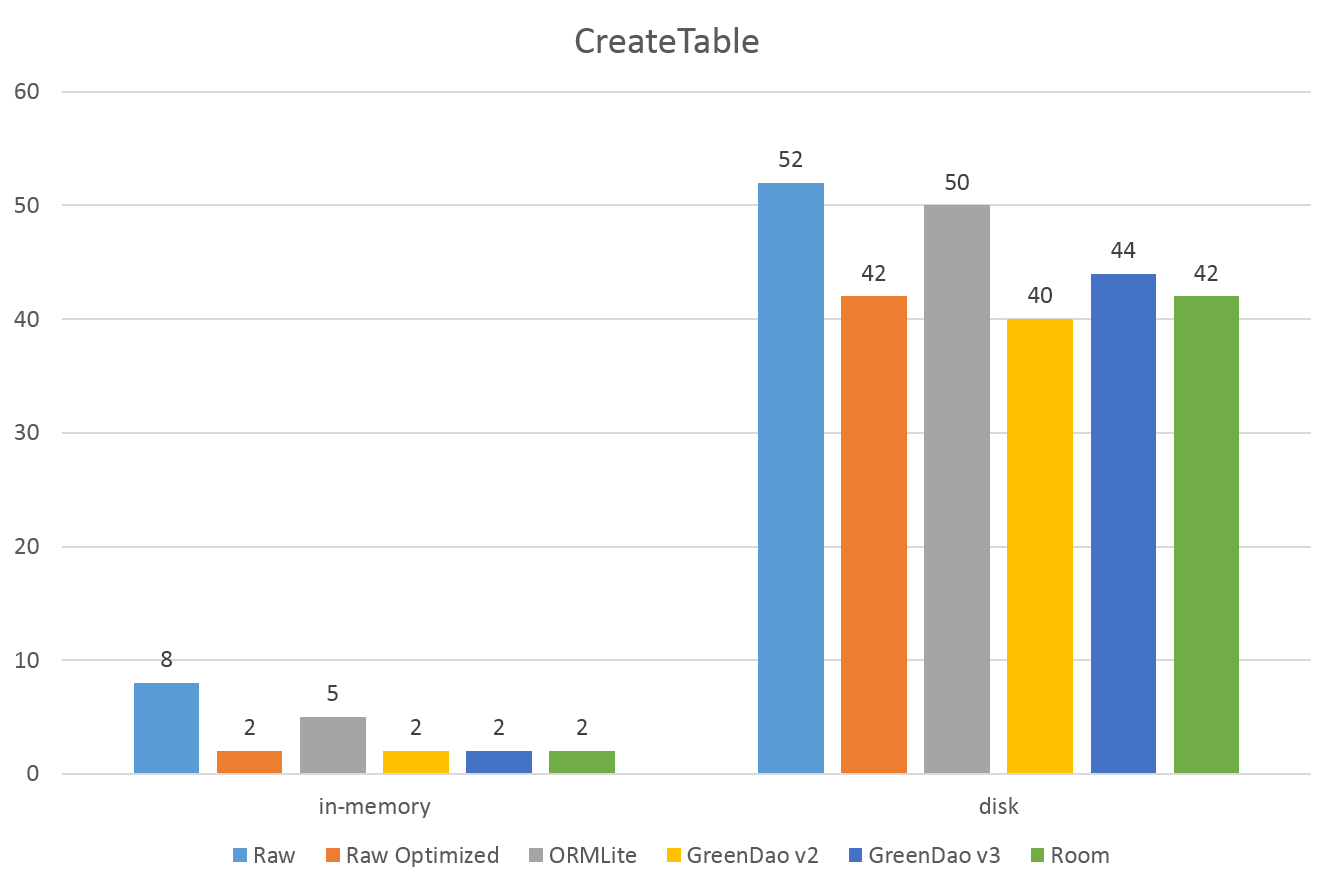
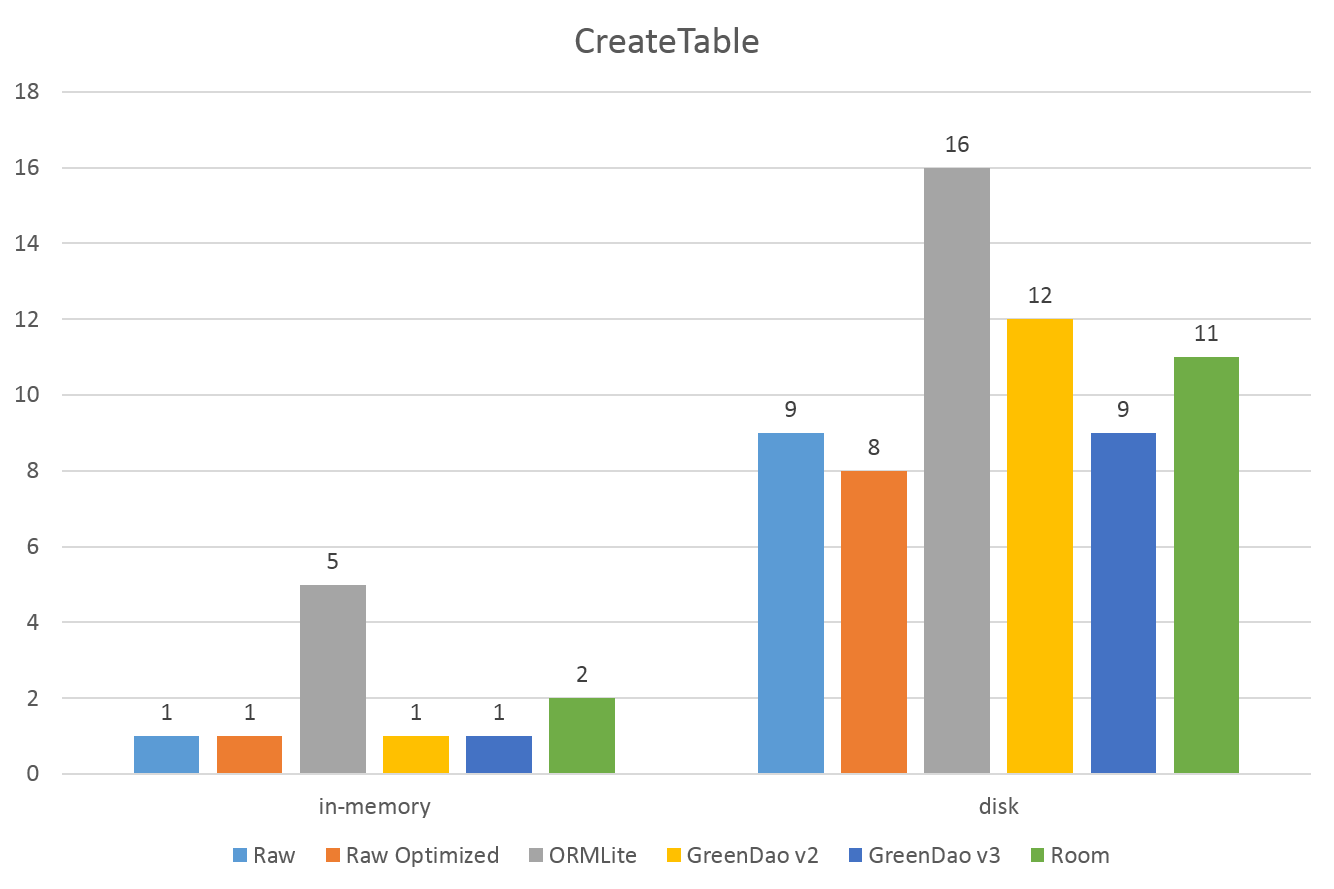
Re-testing on HUAWEI Mate 10 and update results

diff --git a/README.md b/README.md
@@ -23,12 +23,12 @@ Each task is run 50 times, and the application reports the average time for each
 
 ## Results
 
-Building and running the ORM-Benchmark project produces output similar to that below. 
+Building and running the ORM-Benchmark project produces output similar to that below.
 
 - The times are in milliseconds.
 - The results are shown on the device and are also logged to Logcat.  
 
-The results below combine the in-memory database results with the on disk database results side by side. **But this comparison may be invalid because of SQLite pages cache**. They are from a Nexus 6 Android 7.1.1.
+The results below combine the in-memory database results with the on disk database results side by side. They are from a Nexus 6 Android 7.1.1.
 
 - CREATE_TABLE
 ![create_table](results/create_table.png)
@@ -37,13 +37,13 @@ The results below combine the in-memory database results with the on disk databa
 ![write](results/write.png)
 
 - READ_DATA
-![read](results/read.png)
+![read](results/query_all.png)
 
 - READ_INDEXED
-![read_indexed](results/read_indexed.png)
+![read_indexed](results/query_by_indexed.png)
 
 - READ_SEARCH
-![search](results/search.png)
+![search](results/query_with_where_clause.png)
 
 - DROP_TABLE
 ![drop_table](results/drop_table.png)
@@ -69,6 +69,6 @@ After pressing "Run Benchmark" you can press "Show Results" to see the results:
 - Number of messages with readers. Check [BenchmarkExecutable#NUM_MESSAGES_WITH_READERS](/ORM-Benchmark/src/main/java/com/littleinc/orm_benchmark/BenchmarkExecutable.java#L19)
 - Number of reades on messages. Check [BenchmarkExecutable#NUM_READERS](/ORM-Benchmark/src/main/java/com/littleinc/orm_benchmark/BenchmarkExecutable.java#L13)
 
-### Changing The GreenDao v2 Tests 
+### Changing The GreenDao v2 Tests
 
 GreenDao v2 requires a separate project to generate the source code for database entities and DAOs. The ORM-Benchmark-GreenDAO-Generator project is a Java application that you can run to regenerate the database definitions. You only need to do this if you want to change the GreenDao database model!
